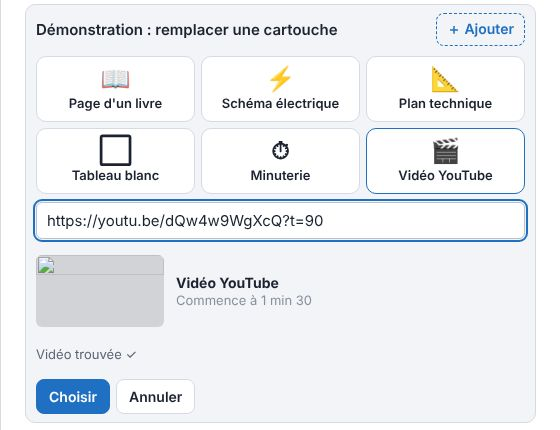
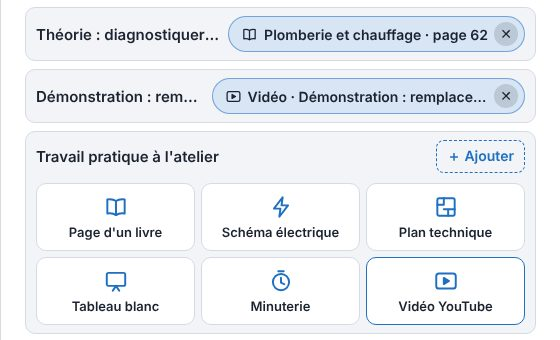
Accueil de classe : ambiance du jour, icônes au trait, correction du démarrage
Claude-Session: https://claude.ai/code/session_0132P7fSy2K8VC3HWdnHumMj

diff --git a/accueil.html b/accueil.html
@@ -348,7 +348,9 @@ header { grid-column: 1 / -1; display: flex; align-items: center; justify-conten
 .lk-choix { margin-top: 10px; }
 .lk-tuiles { display: grid; grid-template-columns: repeat(auto-fill, minmax(118px, 1fr)); gap: 6px; }
 .lk-tuile { display: flex; flex-direction: column; align-items: center; gap: 4px; padding: 10px 6px; border-radius: 10px; border: 1px solid var(--line); background: var(--surface); color: var(--ink); font: 600 13px var(--body); cursor: pointer; text-align: center; }
-.lk-tuile b { font-size: 24px; line-height: 1; }
+.lk-tuile b { font-size: 26px; line-height: 1; display: flex; color: var(--water); }
+.ico { flex: none; display: inline-block; vertical-align: -0.14em; }
+.lk-chip .ico { font-size: 17px; }
 .lk-tuile:hover, .lk-tuile:focus-visible { border-color: var(--water); outline: none; }
 .lk-tuile:disabled { opacity: .45; cursor: default; }
 .lk-form { display: grid; gap: 8px; margin-top: 8px; }
@@ -359,12 +361,14 @@ header { grid-column: 1 / -1; display: flex; align-items: center; justify-conten
 .lk-form .lk-ok button.prim { background: var(--water); border-color: var(--water); color: #fff; }
 .lk-note { color: var(--muted); font-size: 13px; }
 /* bouton « Ouvrir » sur la carte MAINTENANT / ENSUITE */
-.now-go { align-self: flex-start; display: inline-flex; align-items: center; gap: calc(var(--u) * 12); margin-top: calc(var(--u) * 8); font: 700 calc(var(--u) * 30) var(--display); letter-spacing: .02em; color: #fff; background: var(--water); border: 0; border-radius: calc(var(--u) * 12); padding: calc(var(--u) * 12) calc(var(--u) * 24); cursor: pointer; box-shadow: 0 6px 18px rgba(0,0,0,.25); max-width: 100%; }
+.now-go { align-self: flex-start; display: inline-flex; align-items: center; gap: calc(var(--u) * 12); margin-top: calc(var(--u) * 8); font: 700 calc(var(--u) * 30) var(--display); letter-spacing: .02em; color: #0F1418; background: var(--water); border: 0; border-radius: calc(var(--u) * 12); padding: calc(var(--u) * 12) calc(var(--u) * 24); cursor: pointer; box-shadow: 0 6px 18px rgba(0,0,0,.25); max-width: 100%; }
 .now-go span { overflow: hidden; text-overflow: ellipsis; white-space: nowrap; }
 .now-go:hover { filter: brightness(1.08); } .now-go[hidden] { display: none; }
 .now-go.petit { font-size: calc(var(--u) * 22); padding: calc(var(--u) * 8) calc(var(--u) * 16); background: color-mix(in srgb, var(--water) 70%, var(--surface)); }
 .step .lk-i { margin-left: .4em; font-size: .85em; }
-.seg .seg-lk { position: absolute; top: calc(var(--u) * 6); right: calc(var(--u) * 8); font-size: calc(var(--u) * 24); line-height: 1; filter: grayscale(.2); }
+.seg .seg-lk { position: absolute; top: calc(var(--u) * 6); right: calc(var(--u) * 8); font-size: calc(var(--u) * 26); line-height: 1; color: var(--water); display: flex; }
+.seg.now .seg-lk { color: var(--surface); }
+.step .lk-i { color: var(--water); }
 .seg.a-lien { cursor: pointer; } .seg.a-lien:hover { outline: 2px solid var(--water); outline-offset: 2px; }
 .step.a-lien { cursor: pointer; } .step.a-lien:hover .txt { text-decoration: underline; text-decoration-color: var(--water); }
 /* minuterie */
@@ -581,6 +585,7 @@ header { grid-column: 1 / -1; display: flex; align-items: center; justify-conten
     <div class="field"><label for="f-clock">Style d'horloge <span class="tip-i" tabindex="0" role="img" aria-label="Aide : choisis l'apparence de l'heure" data-tip="Numérique : grands chiffres. Aiguilles : horloge classique. Manomètre : l'heure lue sur un cadran de pression. Afficheur : chiffres lumineux de panneau de contrôle. Minimal : heures et minutes seulement.">?</span></label>
       <select id="f-clock"><option value="num">Numérique</option><option value="analog">À aiguilles</option><option value="mano">Manomètre</option><option value="led">Afficheur lumineux</option><option value="mini">Minimal (sans secondes)</option></select></div>
     <div class="field"><label for="f-theme">Couleurs <span class="tip-i" tabindex="0" role="img" aria-label="Aide : Sombre pour une classe tamisée, clair si la classe est très éclairée et que le projecteur pâlit l'image." data-tip="Sombre pour une classe tamisée, clair si la classe est très éclairée et que le projecteur pâlit l'image.">?</span></label><select id="f-theme"><option value="dark">Atelier sombre (acier)</option><option value="light">Clair (classe très éclairée)</option><option value="auto">Comme l'ordinateur</option></select></div>
+    <div class="field"><label for="f-couleurs">Ambiance <span class="tip-i" tabindex="0" role="img" aria-label="Aide : Les couleurs changent chaque jour de la semaine pour garder l'attention des élèves. Lundi ardoise, mardi forêt, mercredi prune, jeudi pétrole, vendredi cuivre." data-tip="Les couleurs changent chaque jour de la semaine pour garder l'attention des élèves. Lundi ardoise, mardi forêt, mercredi prune, jeudi pétrole, vendredi cuivre.">?</span></label><select id="f-couleurs"><option value="jour">Change chaque jour (recommandé)</option><option value="fixe">Toujours la même</option></select></div>
     <div class="field"><label for="f-bg">Arrière-plan <span class="tip-i" tabindex="0" role="img" aria-label="Aide : « Selon la compétence » change le fond tout seul selon la compétence choisie dans Préparer le cours." data-tip="« Selon la compétence » change le fond tout seul selon la compétence choisie dans Préparer le cours.">?</span></label><select id="f-bg"><option value="auto">Selon la compétence (automatique)</option><option value="tuyaux">Salle mécanique</option><option value="plan">Plan technique</option><option value="tole">Tôle d'acier</option><option value="beton">Béton de chantier</option><option value="soudure">Étincelles de soudure</option><option value="elec">Circuits électriques</option><option value="ventil">Conduits de ventilation</option><option value="flammes">Brûleur (flammes)</option><option value="gaz">Brûleur au gaz (flammes bleues)</option><option value="bois">Bois de menuiserie</option><option value="radiant">Plancher radiant</option><option value="sanitaire">Robinetterie et appareils sanitaires</option><option value="evacuation">Réseau d'évacuation</option><option value="securite">Santé et sécurité</option><option value="chantier">Chantier et métier</option><option value="communication">Communication</option><option value="atelier">Outils et entrepôt</option><option value="menage">Entretien ménager</option><option value="informatique">Informatique</option><option value="administration">Administration du bâtiment</option><option value="incendie">Protection incendie</option><option value="uni">Uni</option></select></div>
     <div class="field"><label for="f-msg">Message du jour <span class="tip-i" tabindex="0" role="img" aria-label="Aide : Une consigne courte sous la citation, par exemple « Apportez vos lunettes ». Laisse vide pour ne rien afficher." data-tip="Une consigne courte sous la citation, par exemple « Apportez vos lunettes ». Laisse vide pour ne rien afficher.">?</span></label><input id="f-msg" placeholder="Aucun message"></div>
     <details class="more" id="adv">
@@ -642,6 +647,7 @@ const DEFAULTS = {
   q: "Pourquoi ferme-t-on l'eau en amont avant de démonter un robinet?",
   a: "Pour couper la pression dans la section de tuyauterie et éviter l'inondation pendant le démontage.",
   theme: "dark",
+  couleurs: "jour",
   scale: "auto",
   clock: "num",
   bg: "auto",
@@ -774,8 +780,32 @@ function timeline(start, text) {
   return rows;
 }
 
+/* Couleurs du jour : une ambiance différente chaque jour de la semaine (les élèves remarquent le changement),
+   toujours sombre et contrastée pour le projecteur. Lundi = ardoise, mardi = forêt, mercredi = prune, jeudi = pétrole, vendredi = cuivre. */
+const AMBIANCES = [
+  { nom:"Graphite", bg:"#2A2B30", surface:"#36383F", line:"#50535C", steel:"#6B6F79", rivet:"#80848E", copper:"#EF5A60", water:"#7AA8FF", lc:"#D0303A", lw:"#2563C9" },
+  { nom:"Ardoise",  bg:"#262D36", surface:"#323B46", line:"#4A5562", steel:"#66727F", rivet:"#7A8692", copper:"#EF5A60", water:"#5EB0F0", lc:"#C52430", lw:"#1F6FC2" },
+  { nom:"Forêt",    bg:"#21302A", surface:"#2C3E37", line:"#44594F", steel:"#5E7569", rivet:"#74897E", copper:"#F2B33D", water:"#5FD3A0", lc:"#B7791F", lw:"#1E8A5A" },
+  { nom:"Prune",    bg:"#2C2637", surface:"#3A3247", line:"#544A68", steel:"#6E6384", rivet:"#837899", copper:"#FF8A5C", water:"#B49CFF", lc:"#D1542A", lw:"#6A4FD1" },
+  { nom:"Pétrole",  bg:"#1E2F35", surface:"#293E45", line:"#405A62", steel:"#5A747C", rivet:"#708990", copper:"#FFB454", water:"#4FD1E0", lc:"#B9741A", lw:"#0E8A99" },
+  { nom:"Cuivre",   bg:"#322920", surface:"#41352A", line:"#5E4C3B", steel:"#7A6655", rivet:"#8E7A69", copper:"#F07A3A", water:"#F2C14E", lc:"#C0561E", lw:"#A8790F" },
+  { nom:"Graphite", bg:"#2A2B30", surface:"#36383F", line:"#50535C", steel:"#6B6F79", rivet:"#80848E", copper:"#EF5A60", water:"#7AA8FF", lc:"#D0303A", lw:"#2563C9" }
+];
+const VARS_AMB = ["--bg", "--surface", "--line", "--steel", "--rivet", "--copper", "--water"];
+let jourCouleurs = "";
+function ambianceDuJour() { return AMBIANCES[new Date().getDay()]; }
+function couleursDuJour() {
+  const r = document.documentElement; jourCouleurs = jourAuj();
+  VARS_AMB.forEach(v => r.style.removeProperty(v));
+  if (cfg.couleurs === "fixe") return;
+  const a = ambianceDuJour();
+  const sombre = cfg.theme === "dark" || (cfg.theme !== "light" && matchMedia("(prefers-color-scheme: dark)").matches);
+  if (sombre) { r.style.setProperty("--bg", a.bg); r.style.setProperty("--surface", a.surface); r.style.setProperty("--line", a.line); r.style.setProperty("--steel", a.steel); r.style.setProperty("--rivet", a.rivet); r.style.setProperty("--copper", a.copper); r.style.setProperty("--water", a.water); }
+  else { r.style.setProperty("--copper", a.lc); r.style.setProperty("--water", a.lw); }
+}
 function applyTheme() {
   const r = document.documentElement;
+  setTimeout(couleursDuJour, 0);
   r.classList.toggle("force-light", cfg.theme === "light");
   r.classList.toggle("force-dark", cfg.theme === "dark");
 }
@@ -848,6 +878,7 @@ function renderStatic() {
 
 let lastStepsKey = "";
 function tick() {
+  if (jourCouleurs && jourCouleurs !== jourAuj()) couleursDuJour();
   const now = new Date();
   const h = now.getHours();
   $("v-h").textContent = pad(h); $("v-m").textContent = pad(now.getMinutes()); $("v-s").textContent = pad(now.getSeconds());
@@ -902,7 +933,7 @@ function tick() {
       d.lastChild.textContent = r.pause ? "" : fmt(r.start);
       d.title = fmt(r.start) + " · " + r.label;
       const lk2 = !r.pause && lienDe(r.label);
-      if (lk2){ const ic = document.createElement("span"); ic.className = "seg-lk"; ic.textContent = ICO_LIEN[lk2.type] || "▶"; d.append(ic); d.classList.add("a-lien"); d.title += " · clique pour ouvrir : " + nomLien(lk2); d.onclick = () => ouvrirLien(lk2); }
+      if (lk2){ const ic = document.createElement("span"); ic.className = "seg-lk"; ic.innerHTML = ico(lk2.type); d.append(ic); d.classList.add("a-lien"); d.title += " · clique pour ouvrir : " + nomLien(lk2); d.onclick = () => ouvrirLien(lk2); }
       tl.append(d);
     });
     rows.forEach((r, i) => {
@@ -915,7 +946,7 @@ function tick() {
       li.innerHTML = `<time>${fmt(r.start)}</time><span class="dot"></span><span class="txt"></span>`;
       li.querySelector(".txt").textContent = r.label;
       const lk = !r.pause && lienDe(r.label);
-      if (lk){ const ic = document.createElement("span"); ic.className = "lk-i"; ic.textContent = ICO_LIEN[lk.type] || "▶"; ic.title = "Ouvrir : " + nomLien(lk); li.querySelector(".txt").append(ic);
+      if (lk){ const ic = document.createElement("span"); ic.className = "lk-i"; ic.innerHTML = ico(lk.type); ic.title = "Ouvrir : " + nomLien(lk); li.querySelector(".txt").append(ic);
         li.classList.add("a-lien"); li.title = "Clique pour ouvrir : " + nomLien(lk); li.onclick = () => ouvrirLien(lk); }
       if (i === nowIdx) { const sp = document.createElement("span"); sp.className = "left"; sp.id = "v-left"; li.querySelector(".txt").append(sp); }
       list.append(li);
@@ -1393,7 +1424,7 @@ setTimeout(fit, 1500);
 
 // Réglages
 function openSettings() {
-  ["title", "group", "msg", "amStart", "pmStart", "goals", "word", "def", "q", "a", "theme", "scale", "bg", "clock"].forEach(k => $("f-" + k).value = cfg[k]);
+  ["title", "group", "msg", "amStart", "pmStart", "goals", "word", "def", "q", "a", "theme", "couleurs", "scale", "bg", "clock"].forEach(k => $("f-" + k).value = cfg[k]);
   $("f-ppe").innerHTML = Object.entries(PPE).map(([k, v]) => `<label><input type="checkbox" id="f-ppe-${k}" value="${k}" ${cfg.ppe.includes(k) ? "checked" : ""}> ${v.name}</label>`).join("");
   $("sheet").hidden = false; $("f-title").focus(); $("ai-why").hidden = true; $("ai-note").textContent = ""; preview();
 }
@@ -1499,7 +1530,18 @@ function fillComps(prog) {
 $("f-prog").addEventListener("change", () => { fillComps($("f-prog").value); $("f-module").hidden = true; });
 
 // ---------- Contenus liés aux activités : page de livre, schéma, plan, tableau blanc, minuterie ----------
-const ICO_LIEN = { livre:"📖", schema:"⚡", plan:"📐", tableau:"⬜", minuterie:"⏱", video:"🎬" };
+/* Icônes au trait, même style que la barre d'outils des livres */
+const ICO_P = {
+  livre: '<path d="M12 6.5C10 5 7 4.6 4 5v13c3-.4 6 0 8 1.5 2-1.5 5-1.9 8-1.5V5c-3-.4-6 0-8 1.5zM12 6.5v13"/>',
+  schema: '<path d="M13.5 3L5.5 13.5h6L10.5 21l8-10.5h-6z"/>',
+  plan: '<rect x="4" y="4" width="16" height="16" rx="1.5"/><path d="M4 10h6V4M14 20v-6h6M10 14h4"/>',
+  tableau: '<rect x="3.5" y="4.5" width="17" height="12" rx="1.5"/><path d="M9 21l3-4.5 3 4.5"/>',
+  minuterie: '<circle cx="12" cy="13" r="7.5"/><path d="M12 9v4.5l3 1.5M9.5 3h5"/>',
+  video: '<rect x="3" y="5" width="18" height="14" rx="2.5"/><path d="M10 9.2v5.6l4.8-2.8z" fill="currentColor"/>',
+  ouvrir: '<path d="M8 5l11 7-11 7z" fill="currentColor"/>'
+};
+const ico = t => '<svg class="ico" viewBox="0 0 24 24" width="1em" height="1em" fill="none" stroke="currentColor" stroke-width="1.8" stroke-linecap="round" stroke-linejoin="round" aria-hidden="true">' + (ICO_P[t] || ICO_P.ouvrir) + '</svg>';
+const ICO_LIEN = new Proxy({}, { get: (o, t) => ico(t) });
 /* Vidéo YouTube : on accepte toutes les formes de lien (youtu.be, watch?v=, shorts, embed, live) et le moment de départ (t=90, t=1m30s) */
 function ytInfo(url){
   const u = String(url || "").trim(); let m = u.match(/(?:youtu\.be\/|youtube(?:-nocookie)?\.com\/(?:watch\?(?:.*&)?v=|embed\/|shorts\/|live\/|v\/))([\w-]{11})/i);
@@ -1537,7 +1579,7 @@ function nomLien(c){
   return "";
 }
 function majGo(b, c){ if (!b) return; if (!c){ b.hidden = true; b.onclick = null; return; }
-  const t = "▶ Ouvrir : " + nomLien(c); if (b.dataset.t !== t){ b.dataset.t = t; b.innerHTML = "<span></span>"; b.firstChild.textContent = t; b.title = t + " (touche O)"; }
+  const t = "Ouvrir : " + nomLien(c); if (b.dataset.t !== t){ b.dataset.t = t; b.innerHTML = ico(c.type) + "<span></span>"; b.lastChild.textContent = t; b.title = t + " (touche O)"; }
   b.hidden = false; b.onclick = () => ouvrirLien(c); }
 function ouvrirLien(c){
   if (!c) return;
@@ -1566,7 +1608,7 @@ function renderLiens(){
     row.innerHTML = '<div class="lk-top"><span class="lk-nom"></span></div>'; row.querySelector(".lk-nom").textContent = label;
     const top = row.querySelector(".lk-top");
     if (c){ const ch = document.createElement("span"); ch.className = "lk-chip"; ch.innerHTML = '<span></span><button type="button" aria-label="Retirer">✕</button>';
-      ch.firstChild.textContent = (ICO_LIEN[c.type] || "") + " " + nomLien(c); ch.lastChild.onclick = () => { delete LIENS_T[k]; renderLiens(); }; top.append(ch); }
+      ch.firstChild.textContent = nomLien(c); ch.insertAdjacentHTML("afterbegin", ico(c.type)); ch.lastChild.onclick = () => { delete LIENS_T[k]; renderLiens(); }; top.append(ch); }
     else { const b = document.createElement("button"); b.type = "button"; b.className = "lk-add"; b.textContent = "＋ Ajouter"; b.onclick = () => choix(row, label); top.append(b); }
     box.append(row);
   });
@@ -1576,12 +1618,12 @@ function choix(row, label){
   const k = cleLien(label), z = document.createElement("div"); z.className = "lk-choix";
   const enBiblio = !!CATAL;
   z.innerHTML = '<div class="lk-tuiles">'
-    + '<button type="button" class="lk-tuile" data-t="livre"' + (enBiblio ? "" : " disabled") + '><b>📖</b>Page d\'un livre</button>'
-    + '<button type="button" class="lk-tuile" data-t="schema"' + (enBiblio ? "" : " disabled") + '><b>⚡</b>Schéma électrique</button>'
-    + '<button type="button" class="lk-tuile" data-t="plan"' + (enBiblio ? "" : " disabled") + '><b>📐</b>Plan technique</button>'
-    + '<button type="button" class="lk-tuile" data-t="tableau"' + (enBiblio ? "" : " disabled") + '><b>⬜</b>Tableau blanc</button>'
-    + '<button type="button" class="lk-tuile" data-t="minuterie"><b>⏱</b>Minuterie</button>'
-    + '<button type="button" class="lk-tuile" data-t="video"><b>🎬</b>Vidéo YouTube</button></div>'
+    + '<button type="button" class="lk-tuile" data-t="livre"' + (enBiblio ? "" : " disabled") + '><b>' + ico("livre") + '</b>Page d\'un livre</button>'
+    + '<button type="button" class="lk-tuile" data-t="schema"' + (enBiblio ? "" : " disabled") + '><b>' + ico("schema") + '</b>Schéma électrique</button>'
+    + '<button type="button" class="lk-tuile" data-t="plan"' + (enBiblio ? "" : " disabled") + '><b>' + ico("plan") + '</b>Plan technique</button>'
+    + '<button type="button" class="lk-tuile" data-t="tableau"' + (enBiblio ? "" : " disabled") + '><b>' + ico("tableau") + '</b>Tableau blanc</button>'
+    + '<button type="button" class="lk-tuile" data-t="minuterie"><b>' + ico("minuterie") + '</b>Minuterie</button>'
+    + '<button type="button" class="lk-tuile" data-t="video"><b>' + ico("video") + '</b>Vidéo YouTube</button></div>'
     + (enBiblio ? "" : '<p class="lk-note">Pour les livres, schémas et plans, ouvre ce tableau de bord depuis la bibliothèque.</p>')
     + '<div class="lk-form" hidden></div>';
   row.append(z);
@@ -1617,7 +1659,7 @@ function choix(row, label){
     }
     if (ty === "video"){
       f.innerHTML = '<input type="url" data-u placeholder="Colle le lien de la vidéo (YouTube ou fichier .mp4)" autocomplete="off">'
-        + '<div class="lk-vid" hidden><img alt="" onerror="this.style.visibility='hidden'"><span><b data-n>Vidéo</b><small data-s></small></span></div>'
+        + '<div class="lk-vid" hidden><img alt="" onerror="this.style.visibility=\'hidden\'"><span><b data-n>Vidéo</b><small data-s></small></span></div>'
         + '<small class="lk-aide" data-e>Sur YouTube : bouton « Partager », puis « Copier ». Pour commencer à un moment précis, coche « Commencer à » avant de copier.</small>'
         + '<div class="lk-ok"><button type="button" class="prim" data-v disabled>Choisir</button>' + annuler + '</div>';
       const inp = f.querySelector("[data-u]"), ok = f.querySelector("[data-v]"), apv = f.querySelector(".lk-vid"), msg = f.querySelector("[data-e]");
@@ -1674,7 +1716,7 @@ $("b-cancel").onclick = () => $("sheet").hidden = true;
 $("b-reset").onclick = () => { cfg = { ...DEFAULTS }; openSettings(); };
 $("form").addEventListener("submit", e => {
   e.preventDefault();
-  ["title", "group", "msg", "amStart", "pmStart", "goals", "word", "def", "q", "a", "theme", "scale", "bg", "clock"].forEach(k => cfg[k] = $("f-" + k).value);
+  ["title", "group", "msg", "amStart", "pmStart", "goals", "word", "def", "q", "a", "theme", "couleurs", "scale", "bg", "clock"].forEach(k => cfg[k] = $("f-" + k).value);
   cfg.ppe = [...$("f-ppe").querySelectorAll("input:checked")].map(i => i.value);
   save(); renderStatic(); tick(); fitSoon(); $("sheet").hidden = true;
 });
